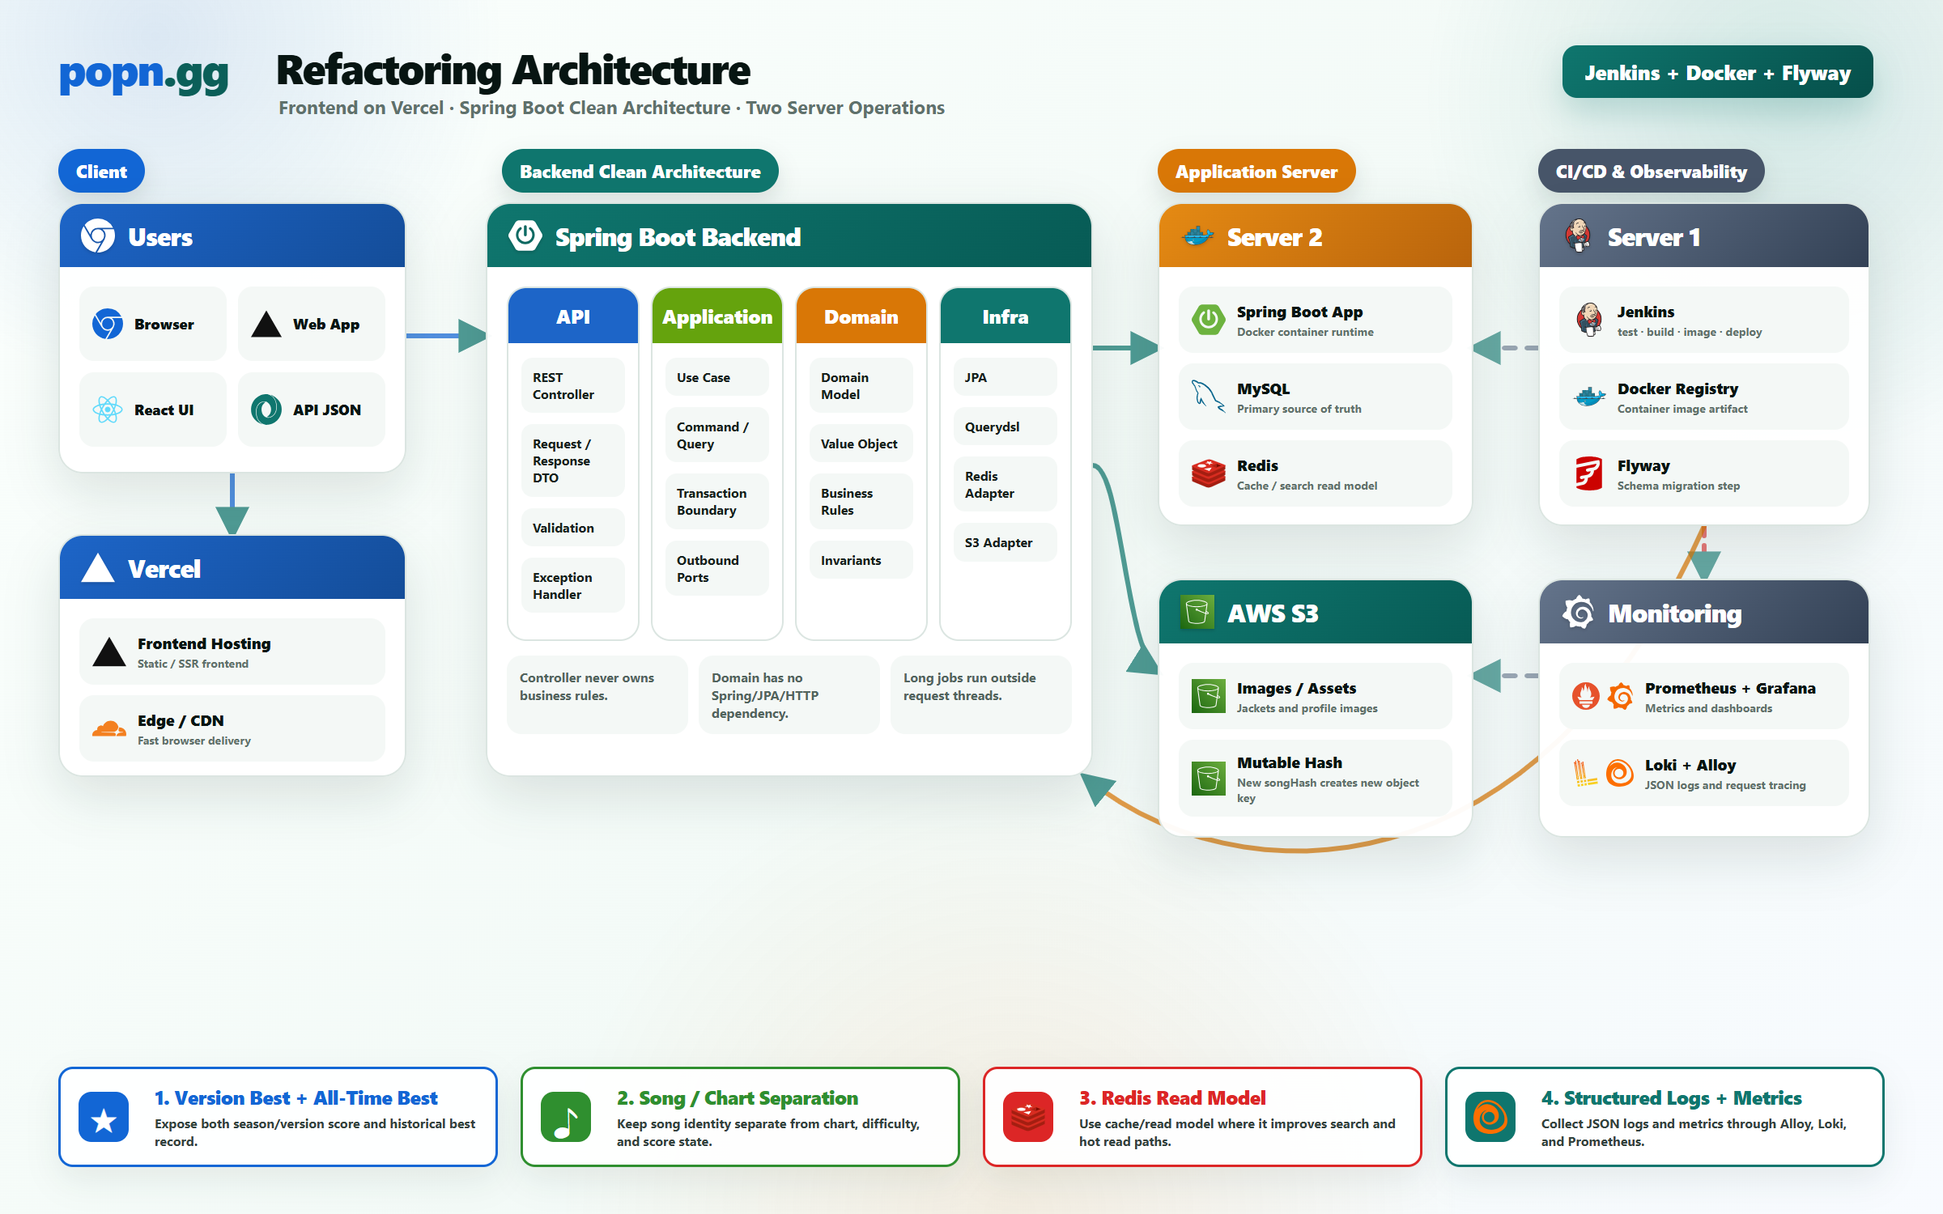
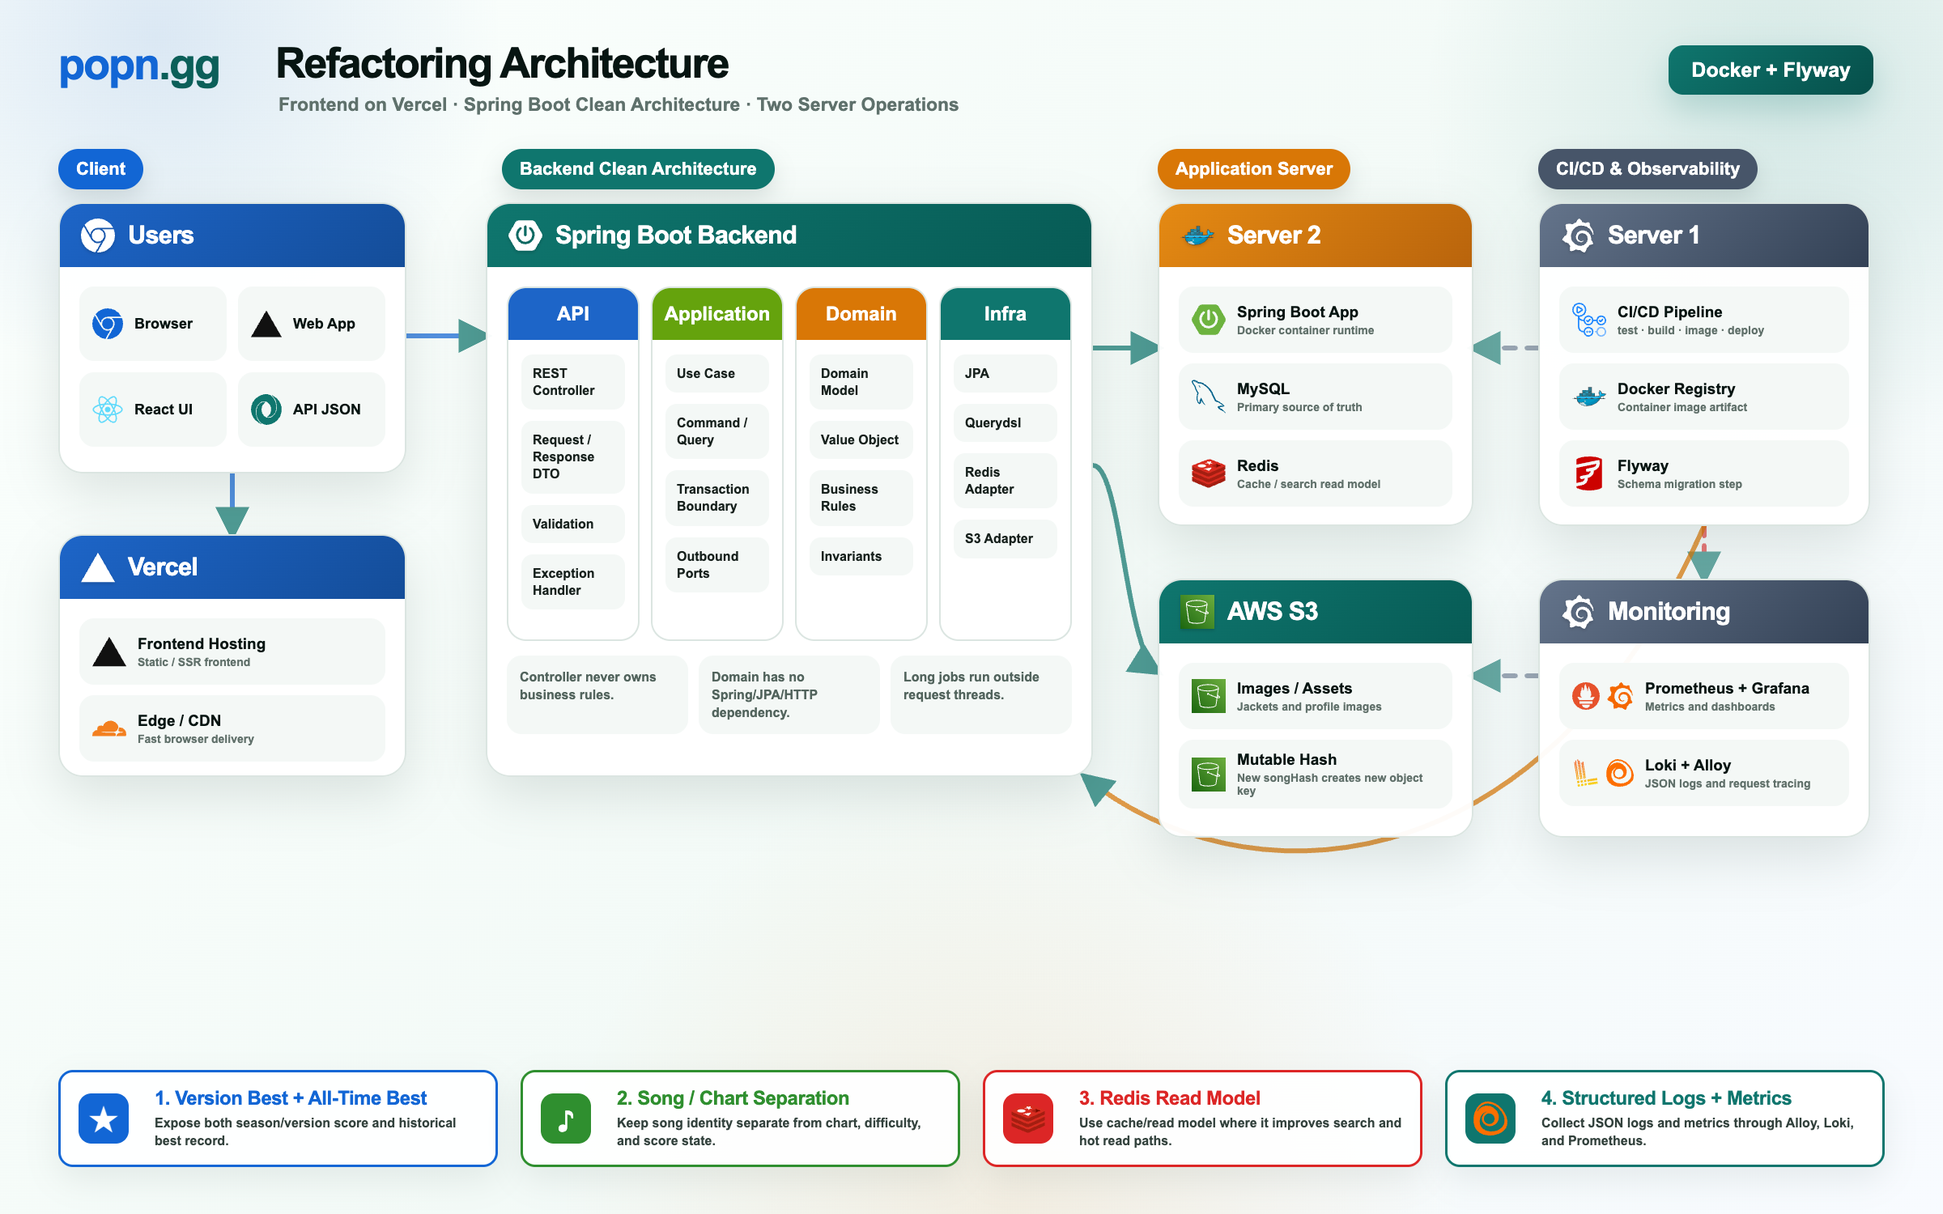
docs: update deployment and auth cookie policy

diff --git a/docs/operations.md b/docs/operations.md
@@ -1,11 +1,11 @@
 # 운영과 배포
 
-이 문서는 로컬 실행 방법보다 운영 기준을 먼저 설명합니다. 이번 리팩토링의 배포/운영은 레거시 서버 기준이 아니라, Jenkins와 Docker, Flyway, Prometheus/Grafana/Loki/Alloy를 전제로 정리합니다.
+이 문서는 로컬 실행 방법보다 운영 기준을 먼저 설명합니다. 이번 리팩토링의 배포/운영은 레거시 서버 기준이 아니라, Docker, Flyway, Prometheus/Grafana/Loki/Alloy를 전제로 정리합니다.
 
 <div class="doc-summary">
   <div class="doc-summary__item">
     <strong>서버 구성</strong>
-    <p>서버 1은 Jenkins와 관측 스택, 서버 2는 애플리케이션과 MySQL/Redis를 둡니다.</p>
+    <p>서버 1은 관측 스택, 서버 2는 애플리케이션과 MySQL/Redis를 둡니다.</p>
   </div>
   <div class="doc-summary__item">
     <strong>배포 기준</strong>
@@ -30,7 +30,7 @@ Swagger:
 
 ## 배포 기준
 
-배포는 Jenkins가 오케스트레이션하고, 실행 산출물은 Docker image로 배포합니다. DB schema migration은 Flyway와 별도 migration 단계로 관리합니다.
+배포는 파이프라인으로 오케스트레이션하고, 실행 산출물은 Docker image로 배포합니다. DB schema migration은 Flyway와 별도 migration 단계로 관리합니다.
 
 이번 프로젝트의 운영 기준은 다음입니다.
 
@@ -42,7 +42,7 @@ Swagger:
 
 ```text
 Git push
-→ Jenkins pipeline
+→ deployment pipeline
 → test
 → bootJar
 → Docker image build
@@ -54,15 +54,15 @@ Git push
 → smoke test
 ```
 
-## Jenkins
+## 배포 파이프라인
 
-Jenkins job은 같은 환경에 대한 동시 배포를 막아야 합니다.
+배포 job은 같은 환경에 대한 동시 배포를 막아야 합니다.
 
 JDK/Spring baseline:
 
 - 신규 기술 baseline은 `JDK 25 + Spring Boot 4.x / Spring Framework 7.x`를 우선 검증합니다.
-- JDK 25에서 Gradle, Querydsl, springdoc, Docker image build, Jenkins build 중 호환성 문제가 확인되면 `JDK 21`로 fallback합니다.
-- Jenkins agent와 Docker base image는 같은 JDK major version을 사용합니다.
+- JDK 25에서 Gradle, Querydsl, springdoc, Docker image build, CI build 중 호환성 문제가 확인되면 `JDK 21`로 fallback합니다.
+- 빌드 환경과 Docker base image는 같은 JDK major version을 사용합니다.
 - JDK 25 검증이 끝나기 전에는 운영 배포 기준을 확정하지 않고, spike branch에서 `./gradlew clean test`, bootJar, image build, app boot smoke test를 먼저 통과시킵니다.
 
 권장 stage:
@@ -109,7 +109,7 @@ MAIL_USERNAME=...
 MAIL_PASSWORD=...
 ```
 
-민감값은 Jenkins credential 또는 배포 환경의 secret 관리 기능으로 주입합니다. Git에 커밋하지 않습니다.
+민감값은 배포 환경의 secret 관리 기능으로 주입합니다. Git에 커밋하지 않습니다.
 
 ## 애플리케이션 자원 격리
 
@@ -281,9 +281,9 @@ db/migration/
 - `flyway_schema_history`를 운영 DB에서 확인할 수 있어야 합니다.
 - migration 실패 시 자동 재시도보다 원인 확인 후 수동 조치를 우선합니다.
 
-이번 프로젝트에서는 Spring Boot 시작 시 자동 실행보다 Jenkins의 명시 migration 단계 또는 migration container를 우선합니다. 애플리케이션 시작과 schema baseline 적용이 섞이면 실패 분석이 어려워집니다.
+이번 프로젝트에서는 Spring Boot 시작 시 자동 실행보다 배포 파이프라인의 명시 migration 단계 또는 migration container를 우선합니다. 애플리케이션 시작과 schema baseline 적용이 섞이면 실패 분석이 어려워집니다.
 
-로컬 개발에서는 Spring Boot 자동 Flyway 실행을 허용할 수 있지만, staging/production에서는 Jenkins 단계에서 migration 결과를 먼저 확인합니다.
+로컬 개발에서는 Spring Boot 자동 Flyway 실행을 허용할 수 있지만, staging/production에서는 배포 단계에서 migration 결과를 먼저 확인합니다.
 
 ## 로깅과 모니터링
 
@@ -293,7 +293,7 @@ db/migration/
 
 | 서버 | 역할 | 구성 |
 | --- | --- | --- |
-| 서버 1 | CI/CD와 관측 | Jenkins, Prometheus, Grafana, Loki, Alertmanager, Grafana Alloy |
+| 서버 1 | 관측 | Prometheus, Grafana, Loki, Alertmanager, Grafana Alloy |
 | 서버 2 | 서비스 실행 | Spring Boot 애플리케이션, MySQL, Redis, Grafana Alloy, node exporter |
 
 기본 흐름:
@@ -323,14 +323,14 @@ Docker stdout JSON log
 - Docker container restart count, OOMKilled 여부
 - 서버 CPU, memory, disk, load average
 - Flyway migration 성공/실패
-- Jenkins 배포 단계별 성공/실패
+- 배포 단계별 성공/실패
 - playdata import job 성공/실패, 처리 row 수, 실패 row 수
 
 필수 로그:
 
 - 애플리케이션 JSON structured log
 - Spring Boot access log 또는 HTTP request summary log
-- Jenkins build/deploy log
+- build/deploy log
 - Flyway migration log
 - playdata import/renew log
 - login failure log
@@ -358,7 +358,7 @@ Docker stdout JSON log
 - 비밀번호, reset token 원문, JWT secret은 절대 로그에 남기지 않습니다.
 - 갱신 코드는 외부 응답 원문 저장 여부를 별도 정책으로 정합니다.
 - 데이터 마이그레이션은 row count, 실패 row, old/new id 매핑을 파일 또는 테이블로 남깁니다.
-- Jenkins 배포 로그에는 secret이 출력되지 않게 masking을 확인합니다.
+- 배포 로그에는 secret이 출력되지 않게 masking을 확인합니다.
 
 ## 전환 당일 체크리스트
 
@@ -371,7 +371,7 @@ Docker stdout JSON log
 - [ ] 검증 SQL 통과
 - [ ] 신규 API smoke test 준비
 - [ ] 롤백 image tag 확인
-- [ ] Jenkins 동시 배포 lock 확인
+- [ ] 동시 배포 lock 확인
 - [ ] 서버 중단 공지
 - [ ] 최종 싱크
 - [ ] 서버 재오픈

diff --git a/docs/migration-plan.md b/docs/migration-plan.md
@@ -29,7 +29,7 @@
 | Session 3. Data Transform | 실제 데이터 변환 및 적재 | migration job/script | users, songs, charts, playdata, history 적재 결과 |
 | Session 3-1. Jacket Asset Migration | 기존 S3 자켓을 신규 songHash key로 재저장 | migration job/script | old/new jacket key mapping, 실패 object |
 | Session 4. Verification | row count, unique, 정합성 검증 | SQL/script | 검증 리포트, diff 리포트 |
-| Session 5. Cutover | 애플리케이션 라우팅 전환과 최종 싱크 | Jenkins/manual approval | 전환 로그, smoke test 결과 |
+| Session 5. Cutover | 애플리케이션 라우팅 전환과 최종 싱크 | deployment/manual approval | 전환 로그, smoke test 결과 |
 | Session 6. Stabilization | 전환 후 보정과 관찰 | 운영 job/query | 오류 row 보정, 모니터링 결과 |
 
 세션을 크게 두는 이유:
@@ -88,7 +88,7 @@ db/migration/
 - 테이블 단위보다 큰 baseline 세션 단위로 파일을 구성합니다.
 - 기존 테이블은 즉시 삭제하지 않습니다.
 - 운영 배포 전 로컬/스테이징에서 `flyway_schema_history`를 확인합니다.
-- 운영 배포에서는 Jenkins 단계에서 상태를 먼저 확인하고, 필요하면 migration container를 별도로 실행합니다.
+- 운영 배포에서는 배포 단계에서 상태를 먼저 확인하고, 필요하면 migration container를 별도로 실행합니다.
 
 ### 3. 데이터 이전 준비
 
@@ -180,7 +180,7 @@ db/migration/
 ### 6. 최종 전환
 
 1. 운영 DB를 백업합니다.
-2. Jenkins 배포 job의 동시 실행을 막습니다.
+2. 배포 job의 동시 실행을 막습니다.
 3. 서버를 닫습니다.
 4. Flyway 스키마 migration을 실행하거나 이미 적용된 상태를 확인합니다.
 5. 최종 데이터 싱크 job을 수행합니다.
@@ -190,7 +190,7 @@ db/migration/
 9. 서버를 다시 엽니다.
 10. 주요 API smoke test를 실행합니다.
 
-## Jenkins 배포에서의 Flyway 위치
+## 배포에서의 Flyway 위치
 
 권장 파이프라인:
 
@@ -211,7 +211,7 @@ checkout
 → smoke test
 ```
 
-운영에서 더 보수적으로 가려면 Flyway를 애플리케이션 시작 자동 실행이 아니라 Jenkins의 명시 단계로 분리합니다.
+운영에서 더 보수적으로 가려면 Flyway를 애플리케이션 시작 자동 실행이 아니라 배포 파이프라인의 명시 단계로 분리합니다.
 
 ```text
 deploy migration container
@@ -219,7 +219,7 @@ deploy migration container
 → deploy app container
 ```
 
-로컬 개발에서는 Spring Boot Flyway 자동 실행을 허용할 수 있습니다. staging/production, 특히 이번 리팩토링처럼 DB 구조가 크게 바뀌는 전환에서는 Jenkins의 명시 단계 또는 migration container를 우선합니다. 애플리케이션 컨테이너 시작과 schema baseline 적용이 섞이면 실패 시 원인 분리가 어려워집니다.
+로컬 개발에서는 Spring Boot Flyway 자동 실행을 허용할 수 있습니다. staging/production, 특히 이번 리팩토링처럼 DB 구조가 크게 바뀌는 전환에서는 배포 파이프라인의 명시 단계 또는 migration container를 우선합니다. 애플리케이션 컨테이너 시작과 schema baseline 적용이 섞이면 실패 시 원인 분리가 어려워집니다.
 
 위험한 스키마 변경은 한 번에 처리하지 않습니다.
 
@@ -260,6 +260,6 @@ deploy migration container
 - 검증 SQL
 - old/new id 매핑 결과
 - 실패 row 리포트
-- Jenkins 배포 로그
+- 배포 로그
 - DB 백업 위치
 - 전환 체크리스트

diff --git a/docs/meetings/runtime-baseline.md b/docs/meetings/runtime-baseline.md
@@ -17,7 +17,7 @@ Fallback: JDK 21 + Spring Boot 4.x + Spring Framework 7.x
 
 프로젝트가 아직 초반이고 코드를 새로 작성하는 단계이므로 런타임과 Spring 세대 전환 비용이 가장 낮습니다.
 
-나중에 JPA, Querydsl, Jackson, Security, 테스트 코드, Docker/Jenkins 설정이 쌓인 뒤 전환하면 영향 범위가 더 커집니다.
+나중에 JPA, Querydsl, Jackson, Security, 테스트 코드, Docker/CI 설정이 쌓인 뒤 전환하면 영향 범위가 더 커집니다.
 
 ## 기대 이점
 
@@ -33,7 +33,7 @@ Fallback: JDK 21 + Spring Boot 4.x + Spring Framework 7.x
 - Querydsl은 Hibernate 7/JPA 3.2 대응 버전을 검토해야 합니다.
 - springdoc은 Spring Boot 4 대응 라인을 사용해야 합니다.
 - Jackson 3 전환 영향으로 JSON 직렬화/역직렬화 동작을 확인해야 합니다.
-- Docker base image와 Jenkins agent JDK 버전을 맞춰야 합니다.
+- Docker base image와 빌드 환경의 JDK 버전을 맞춰야 합니다.
 - JDK 25는 JDK 21보다 운영 사례와 문제 해결 자료가 적을 수 있습니다.
 
 ## 검증 조건
@@ -47,7 +47,7 @@ Fallback: JDK 21 + Spring Boot 4.x + Spring Framework 7.x
 - JPA repository smoke test
 - Spring Security filter chain smoke test
 - Docker image build
-- Jenkins build
+- CI build
 - `/actuator/health` 확인
 - `/actuator/prometheus` 확인
 
@@ -57,7 +57,7 @@ Fallback: JDK 21 + Spring Boot 4.x + Spring Framework 7.x
 
 - annotation processor가 JDK 25에서 안정적으로 동작하지 않음
 - Querydsl Q class 생성이 불안정함
-- Docker/Jenkins 환경에서 JDK 25 이미지 또는 toolchain 관리가 과도하게 복잡함
+- Docker/CI 환경에서 JDK 25 이미지 또는 toolchain 관리가 과도하게 복잡함
 - 핵심 라이브러리 호환성 문제가 반복됨
 
 JDK 21 fallback은 Spring Boot 4.x / Spring Framework 7.x 검증을 포기한다는 뜻이 아닙니다. 런타임만 JDK 21로 낮추고 Spring 세대 전환은 유지하는 방향을 우선합니다.

diff --git a/docs/troubleshooting.md b/docs/troubleshooting.md
@@ -31,7 +31,7 @@
 | 6 | songHash가 곡명/장르명 변경에 취약 | 내부 참조는 `song_id`/`chart_id`, hash는 외부 alias |
 | 7 | S3 자켓 key가 songHash에 종속 | 신규 hash key로 copy/upload, 기존 object 보존 |
 | 8 | 점수와 메달 생명주기가 다름 | version best, all-time best, medal 분리 |
-| 9 | 운영/배포가 수동 절차 중심 | Jenkins, Docker, Flyway, 관측 스택 도입 |
+| 9 | 운영/배포가 수동 절차 중심 | Docker, Flyway, 관측 스택 도입 |
 | 10 | 검색을 클라이언트 전체 데이터 검색에 의존 | 백엔드 검색 API와 Redis/read model 후보 |
 
 ## 기록 방식
@@ -550,14 +550,14 @@ new key:    jackets/{newSongHash}.png
 
 | 서버 | 역할 |
 | --- | --- |
-| 서버 1 | Jenkins, Prometheus, Grafana, Loki, Alertmanager, Grafana Alloy |
+| 서버 1 | Prometheus, Grafana, Loki, Alertmanager, Grafana Alloy |
 | 서버 2 | Spring Boot, MySQL, Redis, Grafana Alloy, node exporter |
 
 배포 흐름:
 
 ```text
 Git push
--> Jenkins
+-> deployment pipeline
 -> test
 -> build
 -> Docker image build
@@ -577,7 +577,7 @@ Git push
 
 ### 확인 기준
 
-- Jenkins 배포 단계가 test/build/image/migration/deploy/health/smoke로 분리됩니다.
+- 배포 단계가 test/build/image/migration/deploy/health/smoke로 분리됩니다.
 - 배포 실패 시 어느 단계에서 실패했는지 바로 확인할 수 있습니다.
 - 애플리케이션 로그가 Loki에서 `requestId` 기준으로 추적됩니다.
 - JVM, DB pool, executor, HTTP latency dashboard가 있습니다.
@@ -631,7 +631,7 @@ MVP 기준:
 | Thread pool | bounded queue, timeout, metric, reject policy 정의 |
 | 식별자 | 내부 참조는 `song_id`, `chart_id` 사용 |
 | 원천값 | rank/medal은 score로 재계산하지 않음 |
-| 운영 | Jenkins, Docker, Flyway, health, smoke test 분리 |
+| 운영 | Docker, Flyway, health, smoke test 분리 |
 | 관측 | Prometheus, Grafana, Loki, Alloy 기준 적용 |
 
 ## 다음에 추가할 항목

diff --git a/docs/conventions/api.md b/docs/conventions/api.md
@@ -104,6 +104,34 @@ public record SongSearchRequest(
 | rate limit | `429` |
 | 외부 시스템 실패 | `502` 또는 `503` |
 
+## Auth Cookie
+
+브라우저 기반 프론트 인증은 JWT를 JSON body로 직접 전달하지 않고, 백엔드가 `HttpOnly Secure Cookie`로 발급하는 방식을 우선합니다.
+
+로그인 성공 응답:
+
+- 서버는 `Set-Cookie: access_token=...` header를 내려줍니다.
+- 응답 body에는 token 원문을 포함하지 않습니다.
+- 프론트는 인증 요청에 `credentials: "include"`를 사용합니다.
+- 로그아웃은 서버가 같은 cookie 이름/path로 만료 cookie를 내려 삭제합니다.
+
+Cookie 기준:
+
+| 속성 | 기준 |
+| --- | --- |
+| `HttpOnly` | 필수. JavaScript에서 JWT 원문을 읽지 못하게 함 |
+| `Secure` | 운영 필수. HTTPS에서만 전송 |
+| `SameSite` | 같은 site면 `Lax`, 다른 site면 `None` |
+| `Path` | `/` |
+| `Max-Age` | access token 만료 시간과 동일 |
+
+CSRF 기준:
+
+- 상태 변경 API는 CSRF 방어를 둡니다.
+- 같은 site 배포에서는 `SameSite=Lax`와 `Origin`/`Referer` 검증을 기본 후보로 둡니다.
+- 프론트/백엔드가 다른 site라 `SameSite=None`이 필요하면 CSRF token을 추가합니다.
+- CORS는 허용 origin을 명시하고 credential을 허용합니다. wildcard origin과 credential 조합은 사용하지 않습니다.
+
 ## Pagination과 Limit
 
 - 무제한 목록 응답은 만들지 않습니다.

diff --git a/docs/planning/service-research.md b/docs/planning/service-research.md
@@ -184,7 +184,7 @@ MVP DDL에 모두 넣지는 않습니다. 다만 `bpm`, `character`, `release_da
 | `GET /charts/{chartId}/rankings` | 차트 상세 외에도 곡별 랭킹만 독립 조회할 수 있게 함. version best/all-time best 동시 제공 |
 | `GET /users/{poptomoId}/playdata/summary` | 프로필/대시보드에서 version best/all-time best 요약을 한 번에 내려줌 |
 | `PATCH /user/email` | 이메일 기반 비밀번호 복구 준비 |
-| `GET /admin/migrations/status` | 운영 편의. Jenkins/DB 확인으로 충분하면 제외 가능 |
+| `GET /admin/migrations/status` | 운영 편의. 배포 로그/DB 확인으로 충분하면 제외 가능 |
 | `GET /search/charts` | 검색이 복잡해질 때 `/chart/all`에서 분리 |
 | `GET /image/jacket/{songId}` | 이미지 프록시가 필요해질 때 후보. 자켓은 songId 기준으로 연결 |
 | `PATCH /admin/songs/{songId}` | 장르명, 제목, 작곡가, 버전, 자켓 등 곡 메타데이터 보정 |

diff --git a/docs/planning/overview.md b/docs/planning/overview.md
@@ -33,7 +33,7 @@ popn.gg는 pop'n music 플레이어가 곡, 채보, 플레이데이터, 팝클, 
 - 플레이데이터 갱신과 랭킹 조회를 안정화합니다.
 - 긴 갱신, 집계, 외부 I/O가 웹 요청과 같은 자원을 잠식하지 않도록 실행 경계를 분리합니다.
 - 이메일 기반 비밀번호 복구를 제공합니다.
-- Jenkins, Docker, Flyway 기반의 신규 운영 흐름을 준비합니다.
+- Docker, Flyway 기반의 신규 운영 흐름을 준비합니다.
 
 ## 비목표
 
@@ -41,4 +41,3 @@ popn.gg는 pop'n music 플레이어가 곡, 채보, 플레이데이터, 팝클, 
 - MVP에서 모든 운영 모니터링 자동화를 완료하지 않습니다.
 - MVP에서 게임 코드/표시 정책 관리 UI를 만들지 않습니다. 예: 랭크, 메달, 난이도, 크레딧 종류를 운영자가 화면에서 수정하는 기능
 - MVP에서 레거시 화면과 API를 그대로 복제하지 않습니다.
-

diff --git a/docs/meetings/data-modeling.md b/docs/meetings/data-modeling.md
@@ -192,7 +192,7 @@ High☆Cheers 전환에서는 `28 -> 29`에서 기록이 초기화되었고, 이
 - 신규 버전 전환 정책은 누가 확정할 것인가?
 - 점수 초기화 여부를 어떤 근거로 확인할 것인가? 실제 계정 샘플, 공식 공지, 크롤링 결과 중 무엇을 기준으로 둘 것인가?
 - `DRAFT` 정책 상태에서 갱신 요청이 들어오면 실패시킬 것인가, 이전 버전 기준으로 임시 처리할 것인가?
-- 전환 적용은 관리자 API에서 즉시 실행할 것인가, Jenkins job으로 chunk 처리할 것인가?
+- 전환 적용은 관리자 API에서 즉시 실행할 것인가, 운영 job으로 chunk 처리할 것인가?
 - `CARRY_OVER`일 때 `VERSION_CARRIED_OVER` 이력을 모든 playdata에 남길 것인가, 유저가 처음 갱신한 row에만 lazy로 남길 것인가?
 
 ## 유저 비밀번호와 복구

diff --git a/docs/index.md b/docs/index.md
@@ -74,7 +74,7 @@
     </div>
     <div class="status-card">
       <span class="status-card__tag">Operations</span>
-      <strong>Jenkins, Docker, Flyway, 관측 스택</strong>
+      <strong>Docker, Flyway, 관측 스택</strong>
       <p>배포와 운영은 레거시 기준이 아니라 Docker 기반 배포와 Prometheus/Grafana/Loki/Alloy 기준으로 정리합니다.</p>
     </div>
   </div>
@@ -115,7 +115,7 @@
     <a class="doc-card" href="operations/">
       <span class="doc-card__eyebrow">Operations</span>
       <strong>운영</strong>
-      <p>Jenkins, Docker, Flyway, 모니터링, 로그 수집 흐름을 정리합니다.</p>
+      <p>Docker, Flyway, 모니터링, 로그 수집 흐름을 정리합니다.</p>
     </a>
   </div>
 </section>
